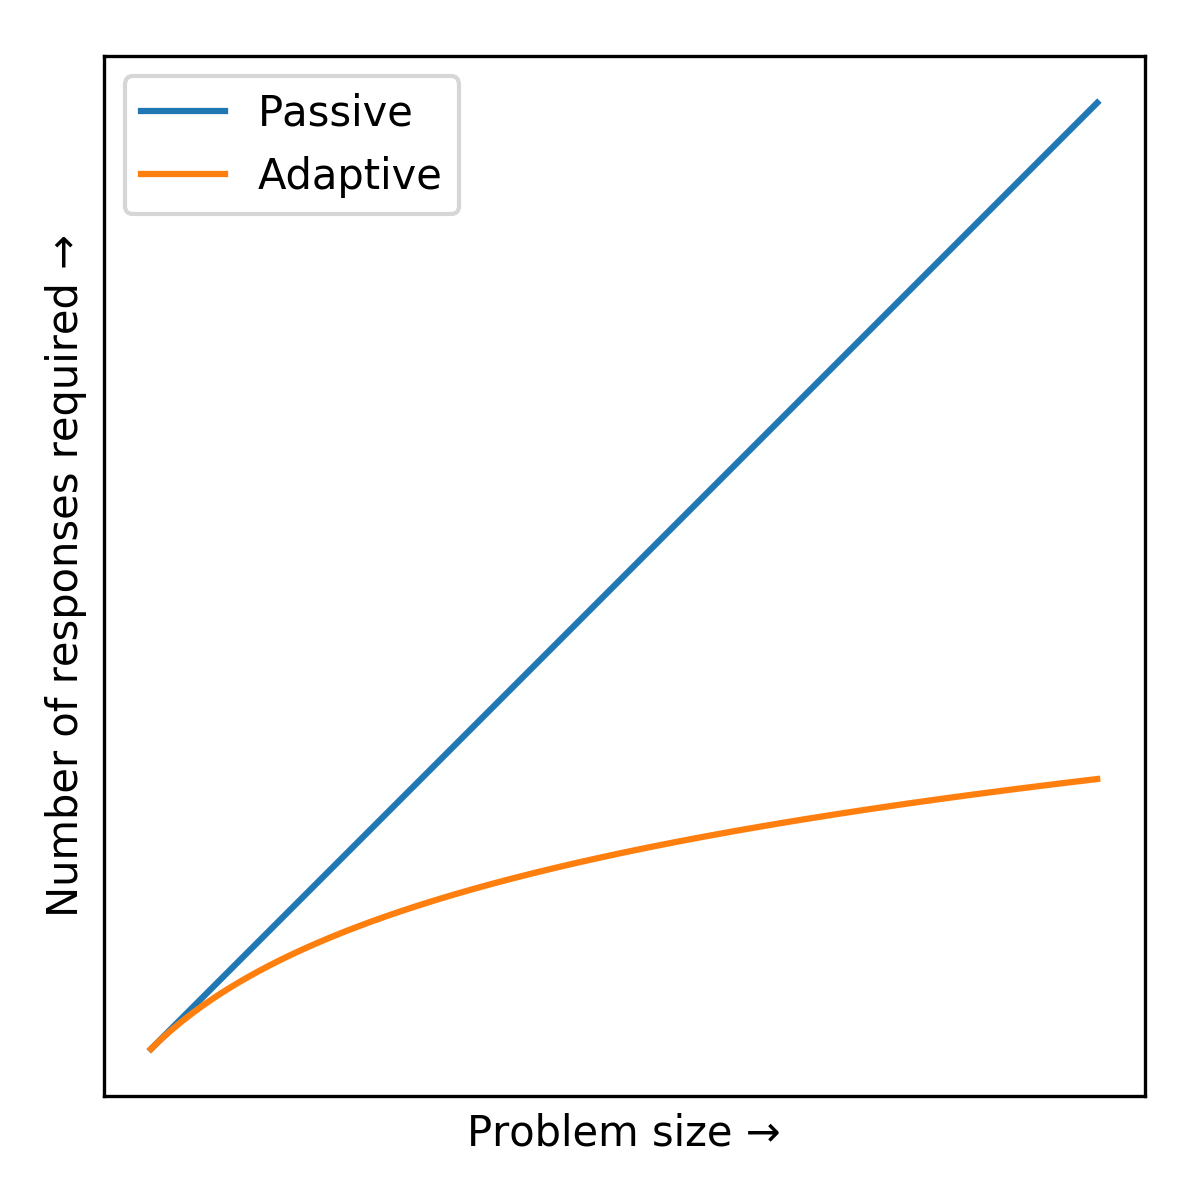
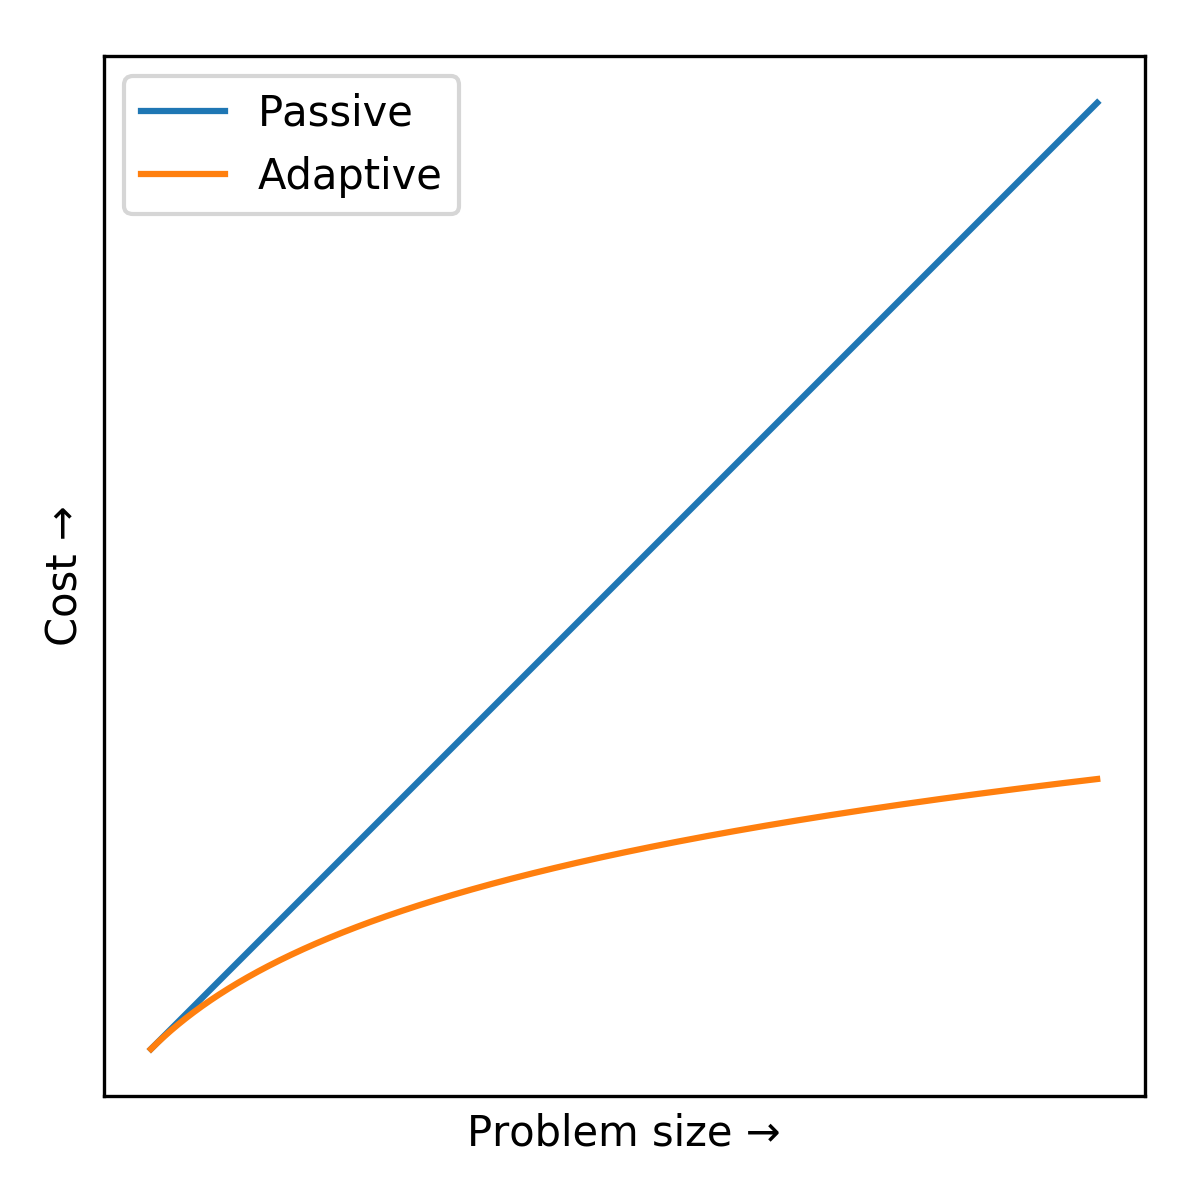
Rework plot labels on opening figure

Changed region(s): [[0.0308, 0.185, 0.0617, 0.7708]]

diff --git a/papers/scott_sievert/adaptive-gains.py b/papers/scott_sievert/adaptive-gains.py
@@ -28,7 +28,7 @@ textbook()
 plt.plot(n, passive, label='Passive')
 plt.plot(n, adaptive, label='Adaptive')
 plt.xlabel('Problem size →')
-plt.ylabel('Number of responses required →')
+plt.ylabel('Cost →')
 #  plt.title('Collection cost for different ')
 plt.legend(loc='best')
 
@@ -43,4 +43,4 @@ plt.legend(loc='best')
 
 plt.tight_layout()
 plt.savefig('figures/adaptive-gains.png')
-plt.show()
+#  plt.show()
